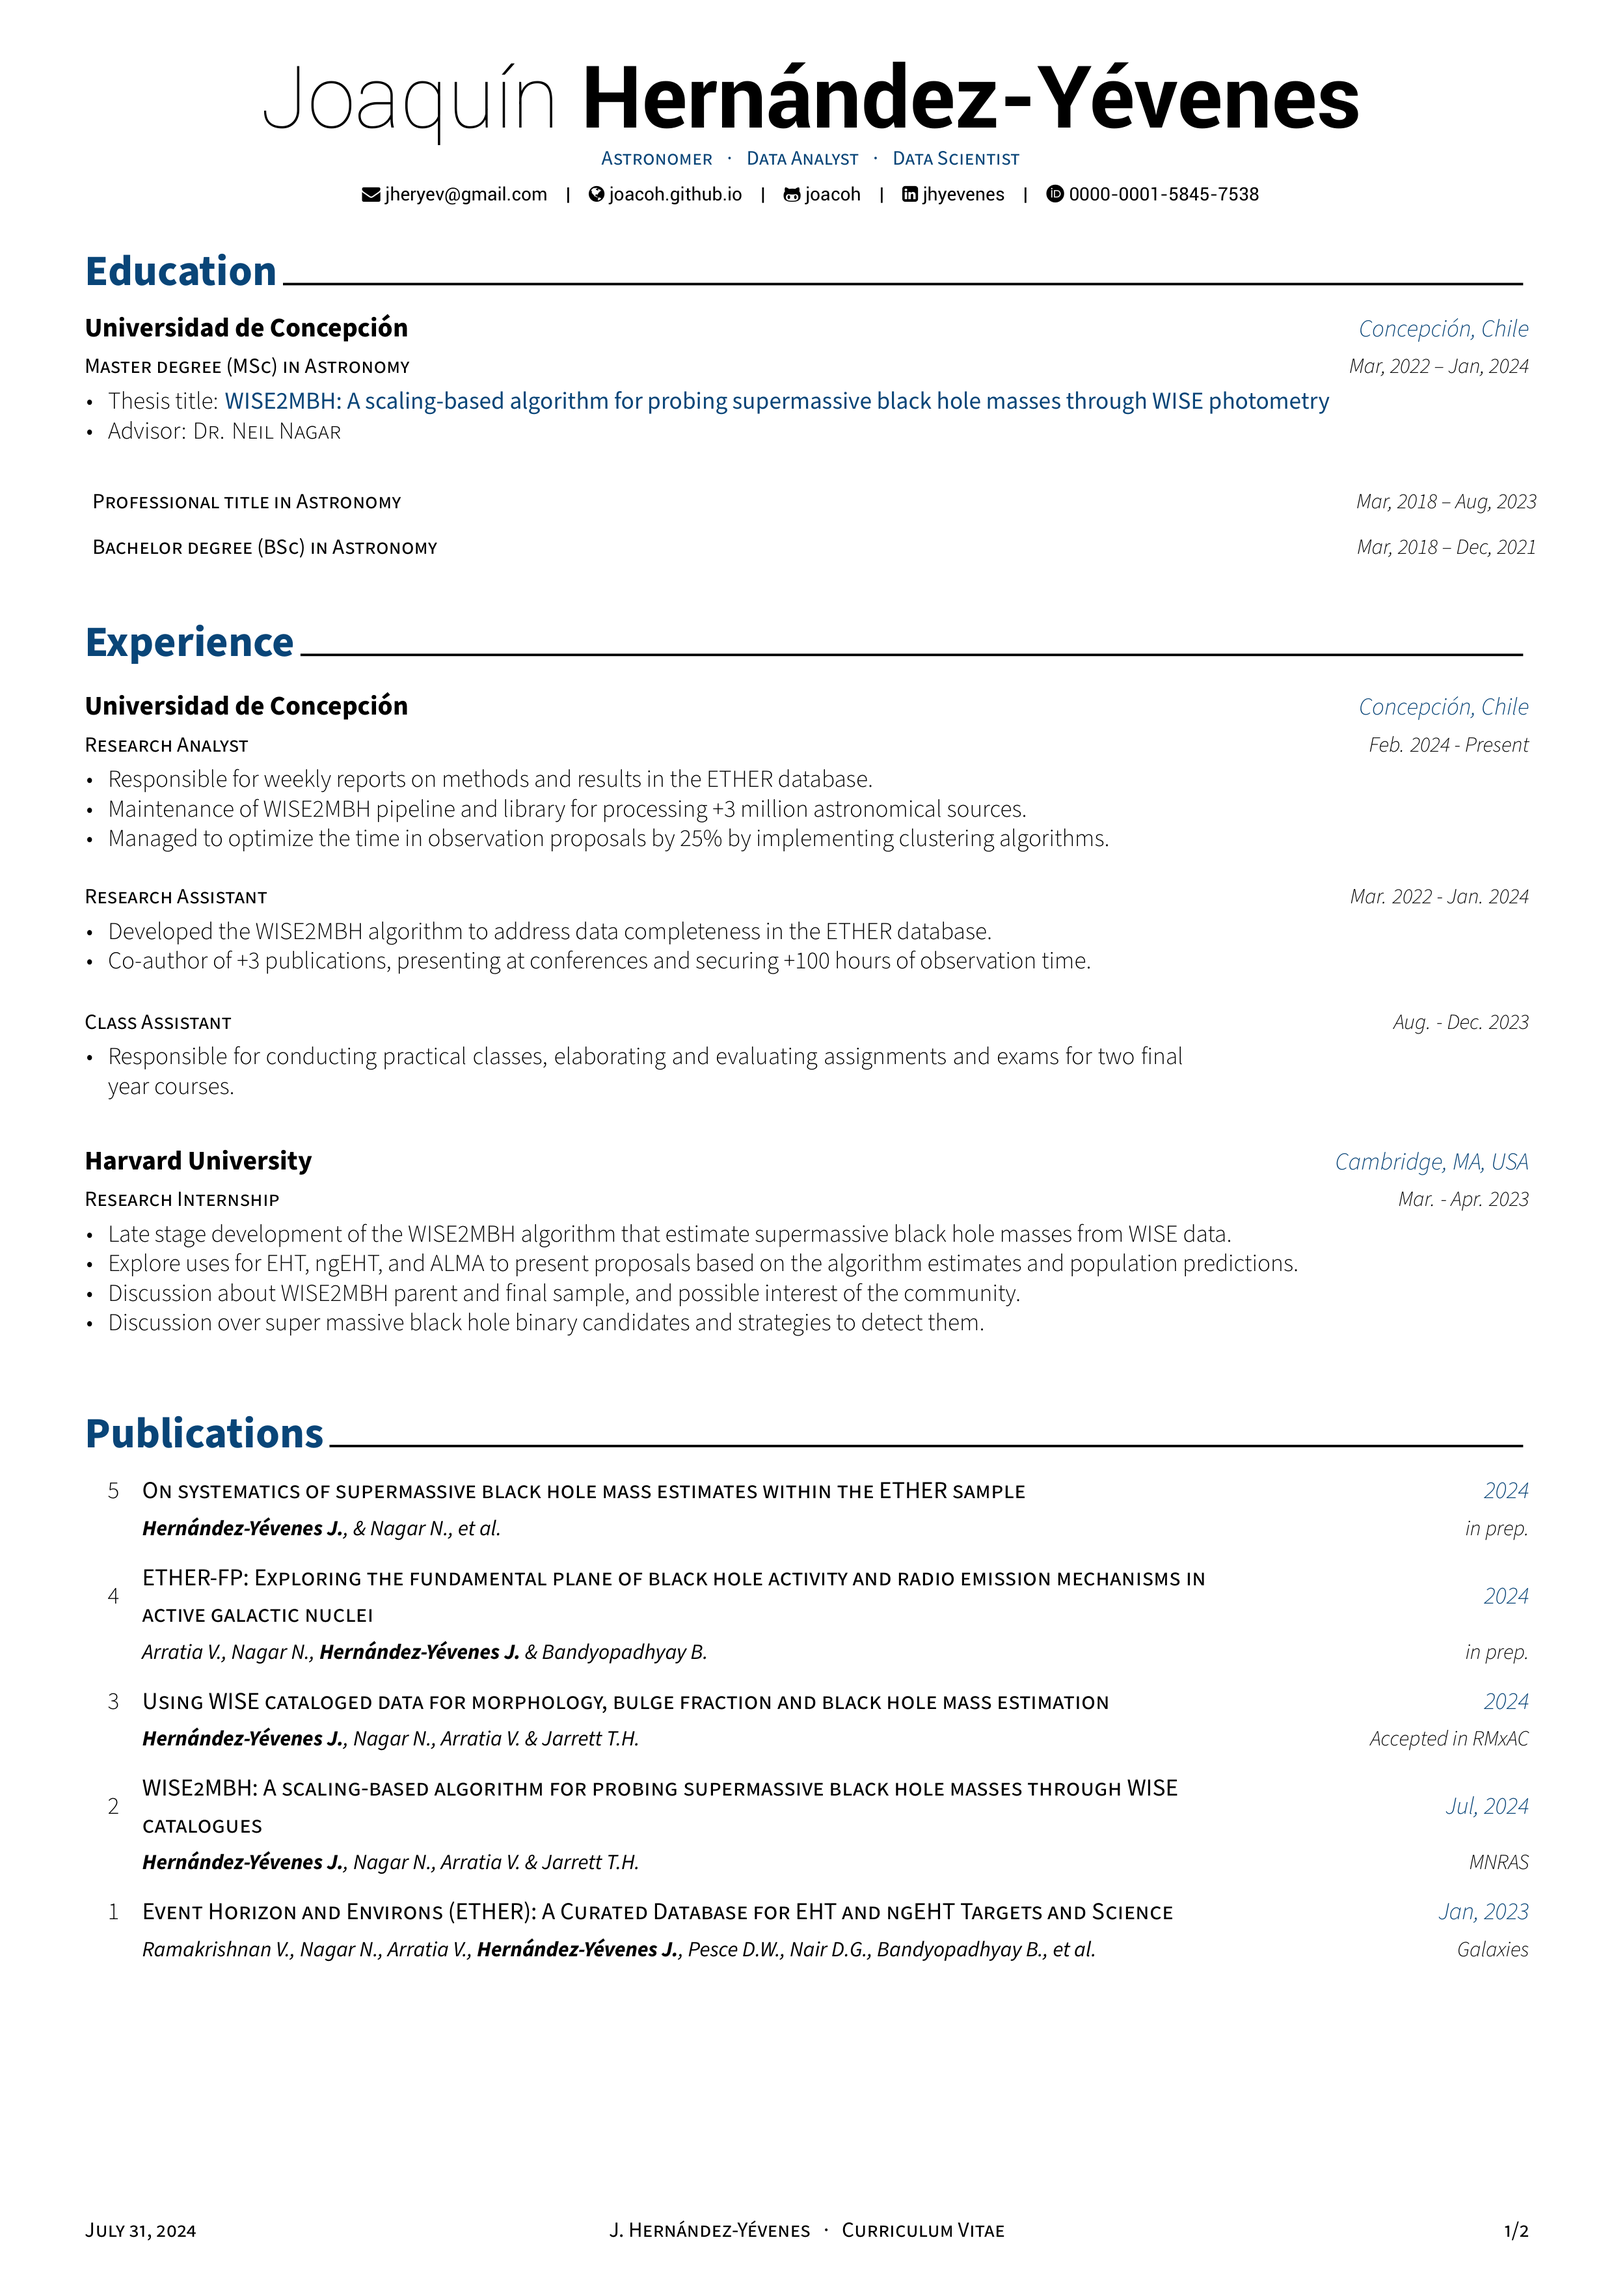
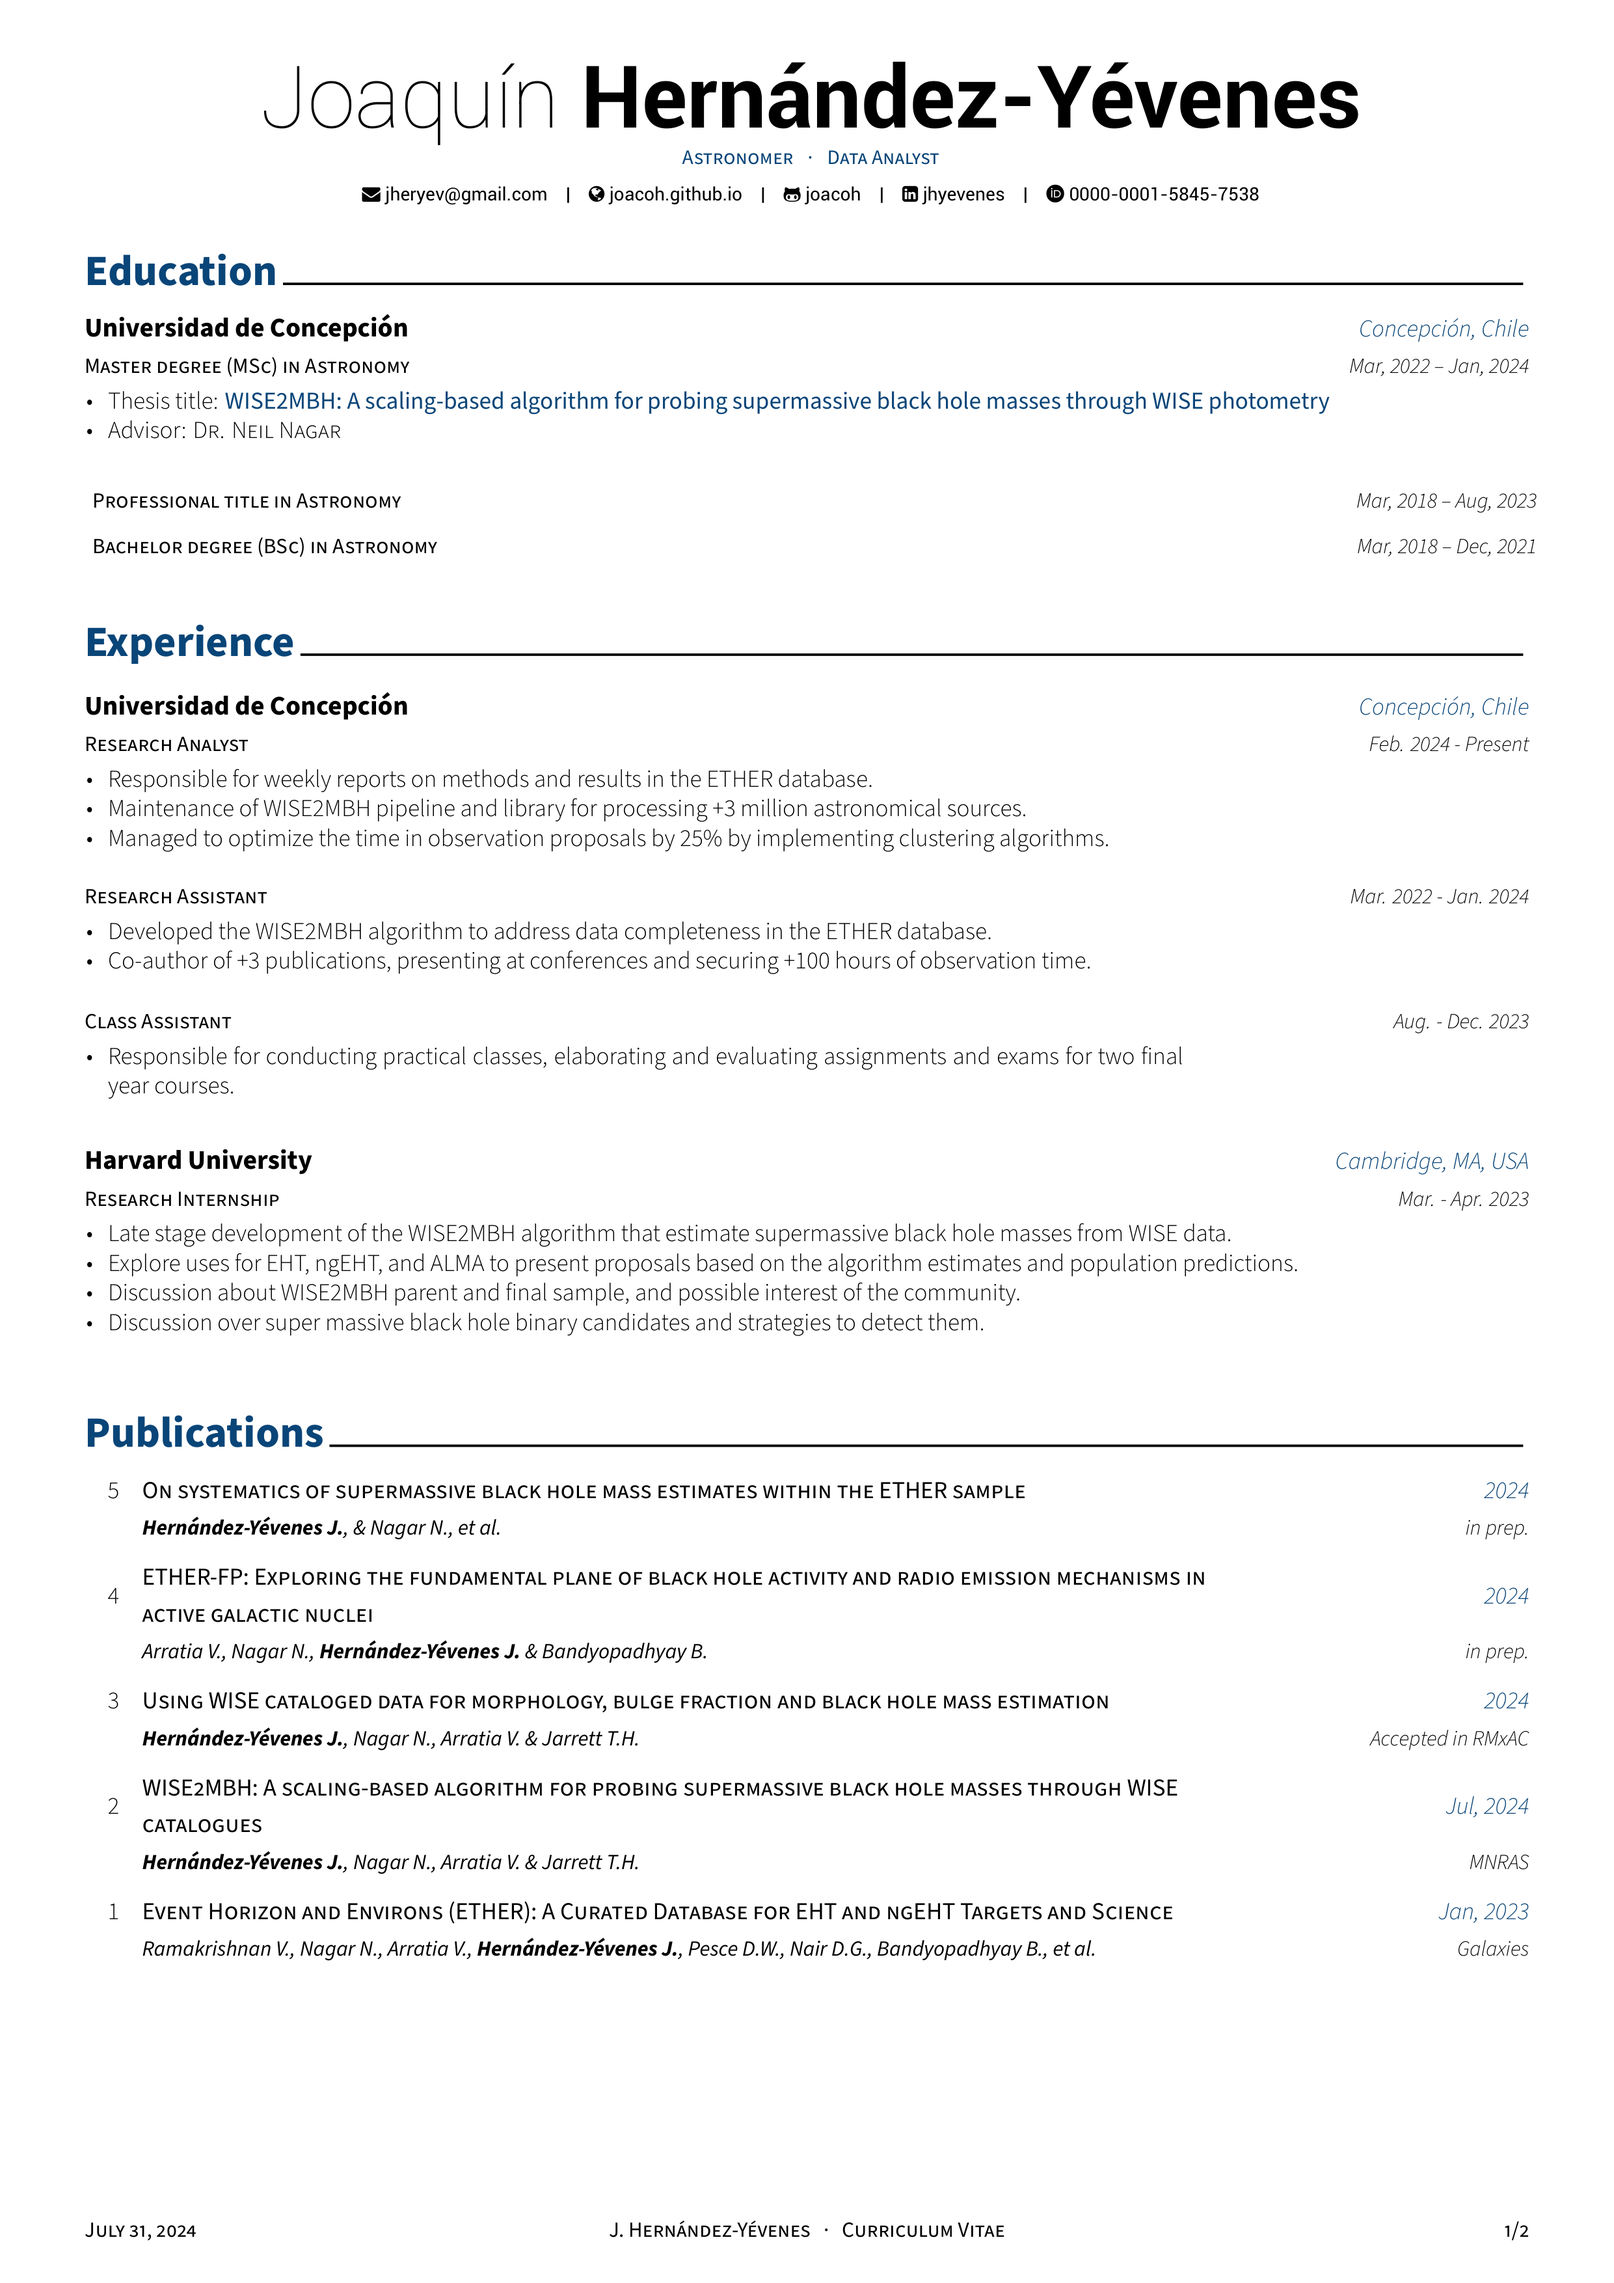
Update 31/07

diff --git a/data/certificates.tex b/data/certificates.tex
@@ -11,6 +11,12 @@
 
 %---------------------------------------------------------
   \cvhonor
+    {TOEFL iBT (C1 proficiency)} % Name
+    {ETS} % Issuer
+    {\href{https://joacoh.github.io/files/toefl.pdf}{Certificate}} % Credential ID
+    {2024} % Date(s)
+%---------------------------------------------------------
+  \cvhonor
     {Machine Learning Specialization} % Name
     {DeepLearning.AI \& Standford University} % Issuer
     {\href{https://www.coursera.org/account/accomplishments/specialization/9ZUV9TSH2GB6}{Certificate}} % Credential ID

diff --git a/data/infos.tex b/data/infos.tex
@@ -5,7 +5,7 @@
 % Available options: circle|rectangle,edge/noedge,left/right
 % \photo[rectangle,right,noedge]{./data/profile}
 \name{Joaquín}{Hernández-Yévenes}
-\position{Astronomer {\enskip\cdotp\enskip} Data Analyst {\enskip\cdotp\enskip} Data Scientist}
+\position{Astronomer {\enskip\cdotp\enskip} Data Analyst}
 \address{}
 
 % \phone{phone-number}
